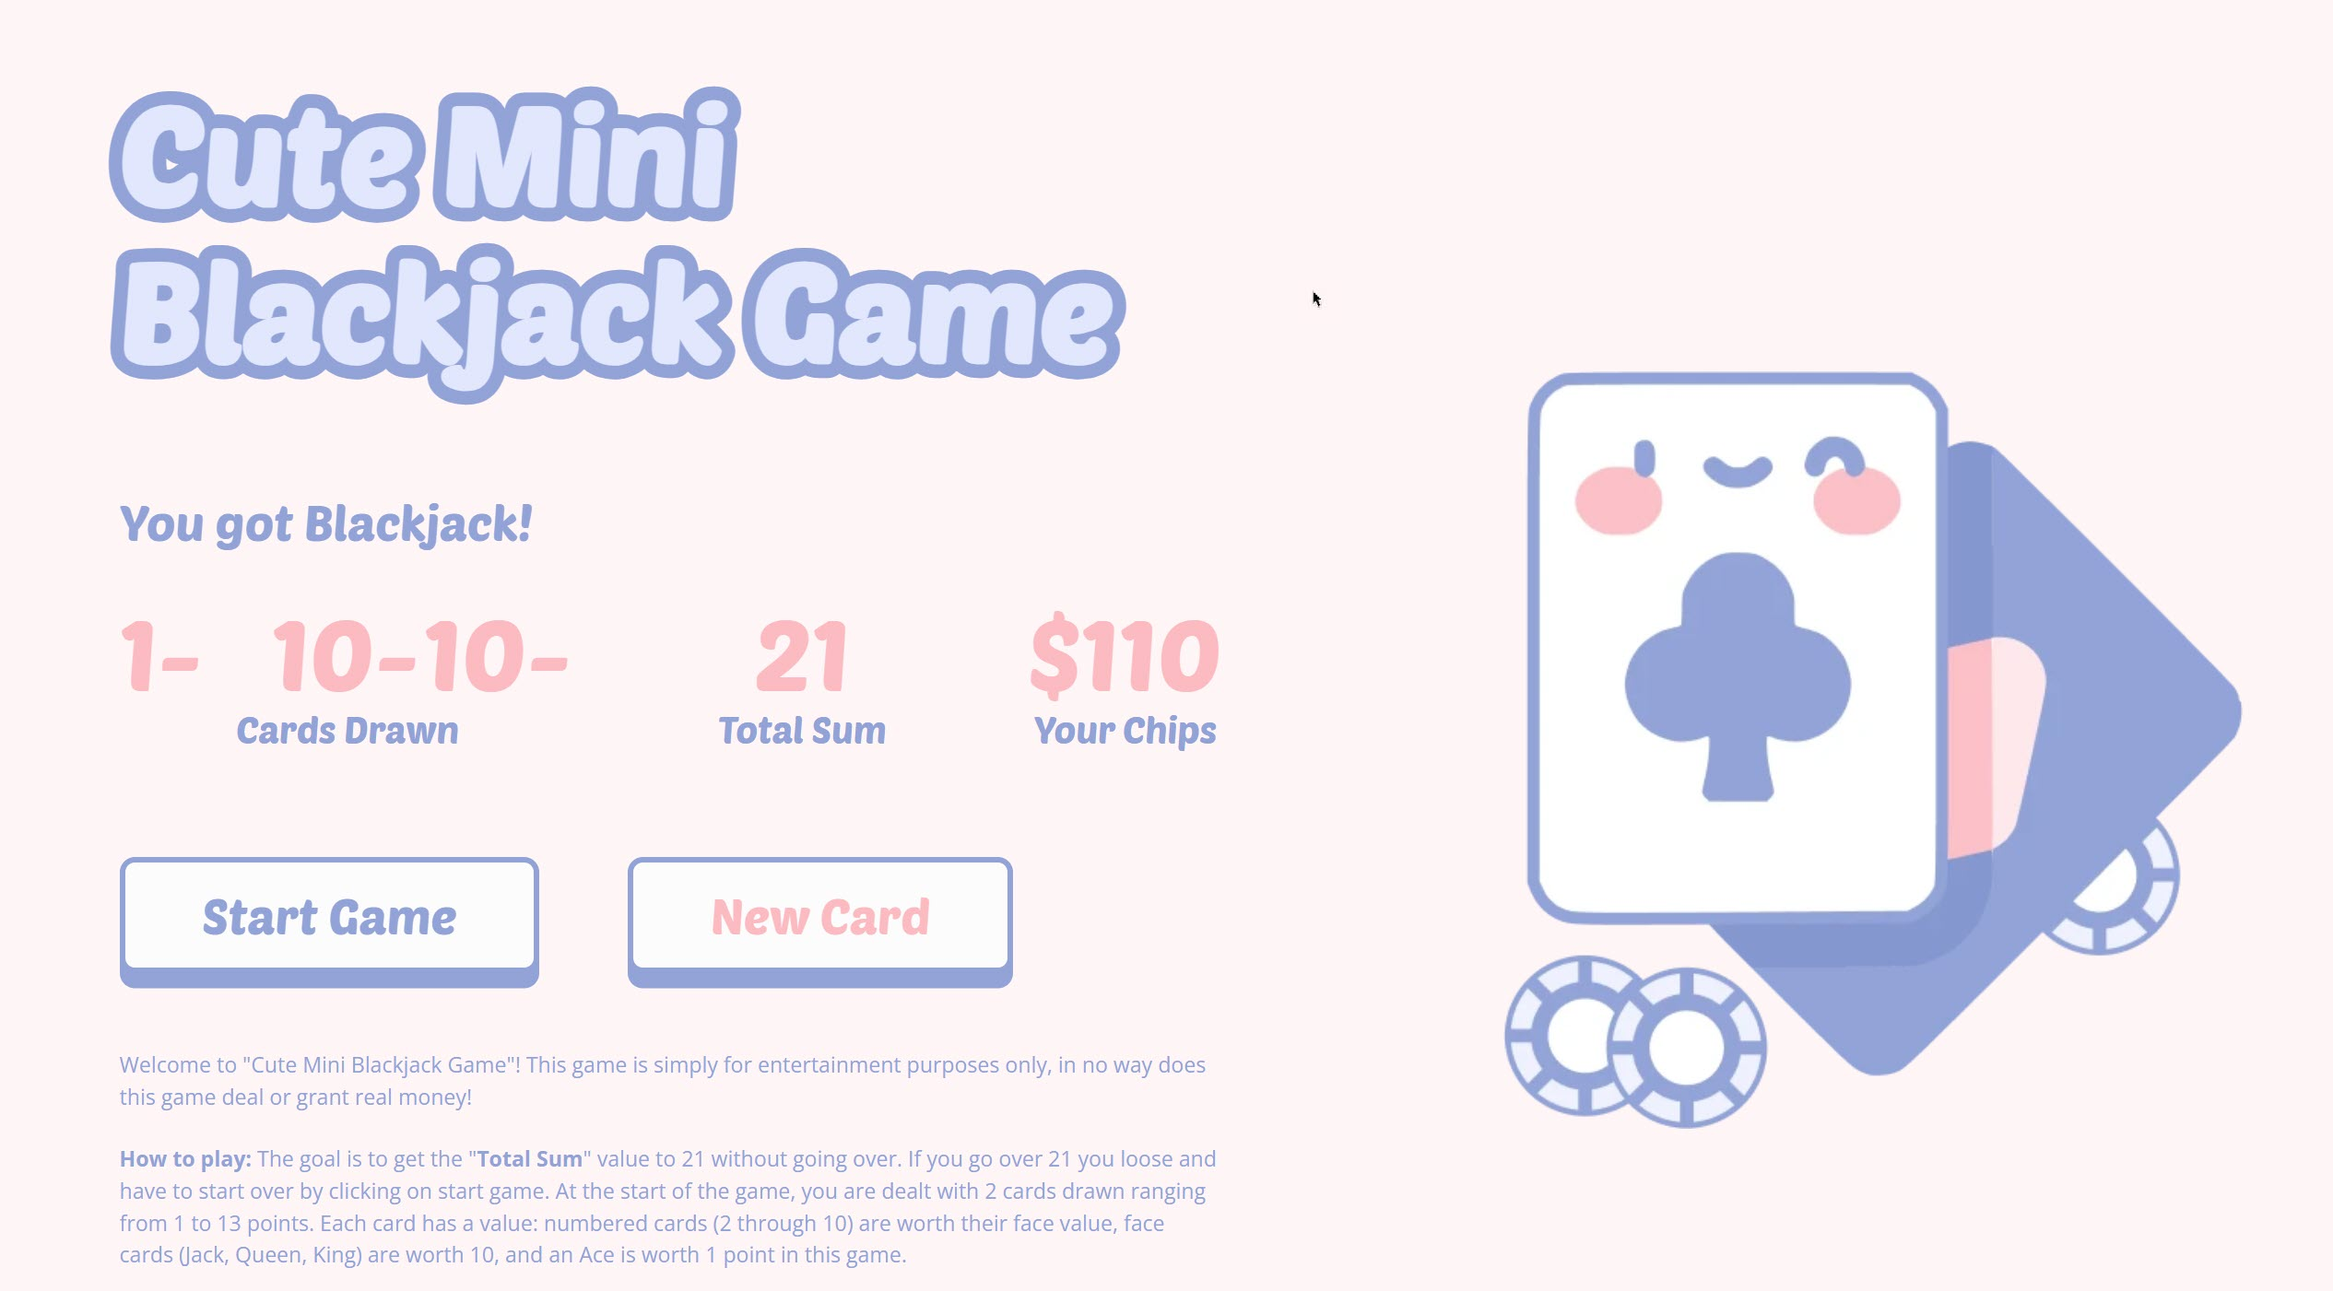
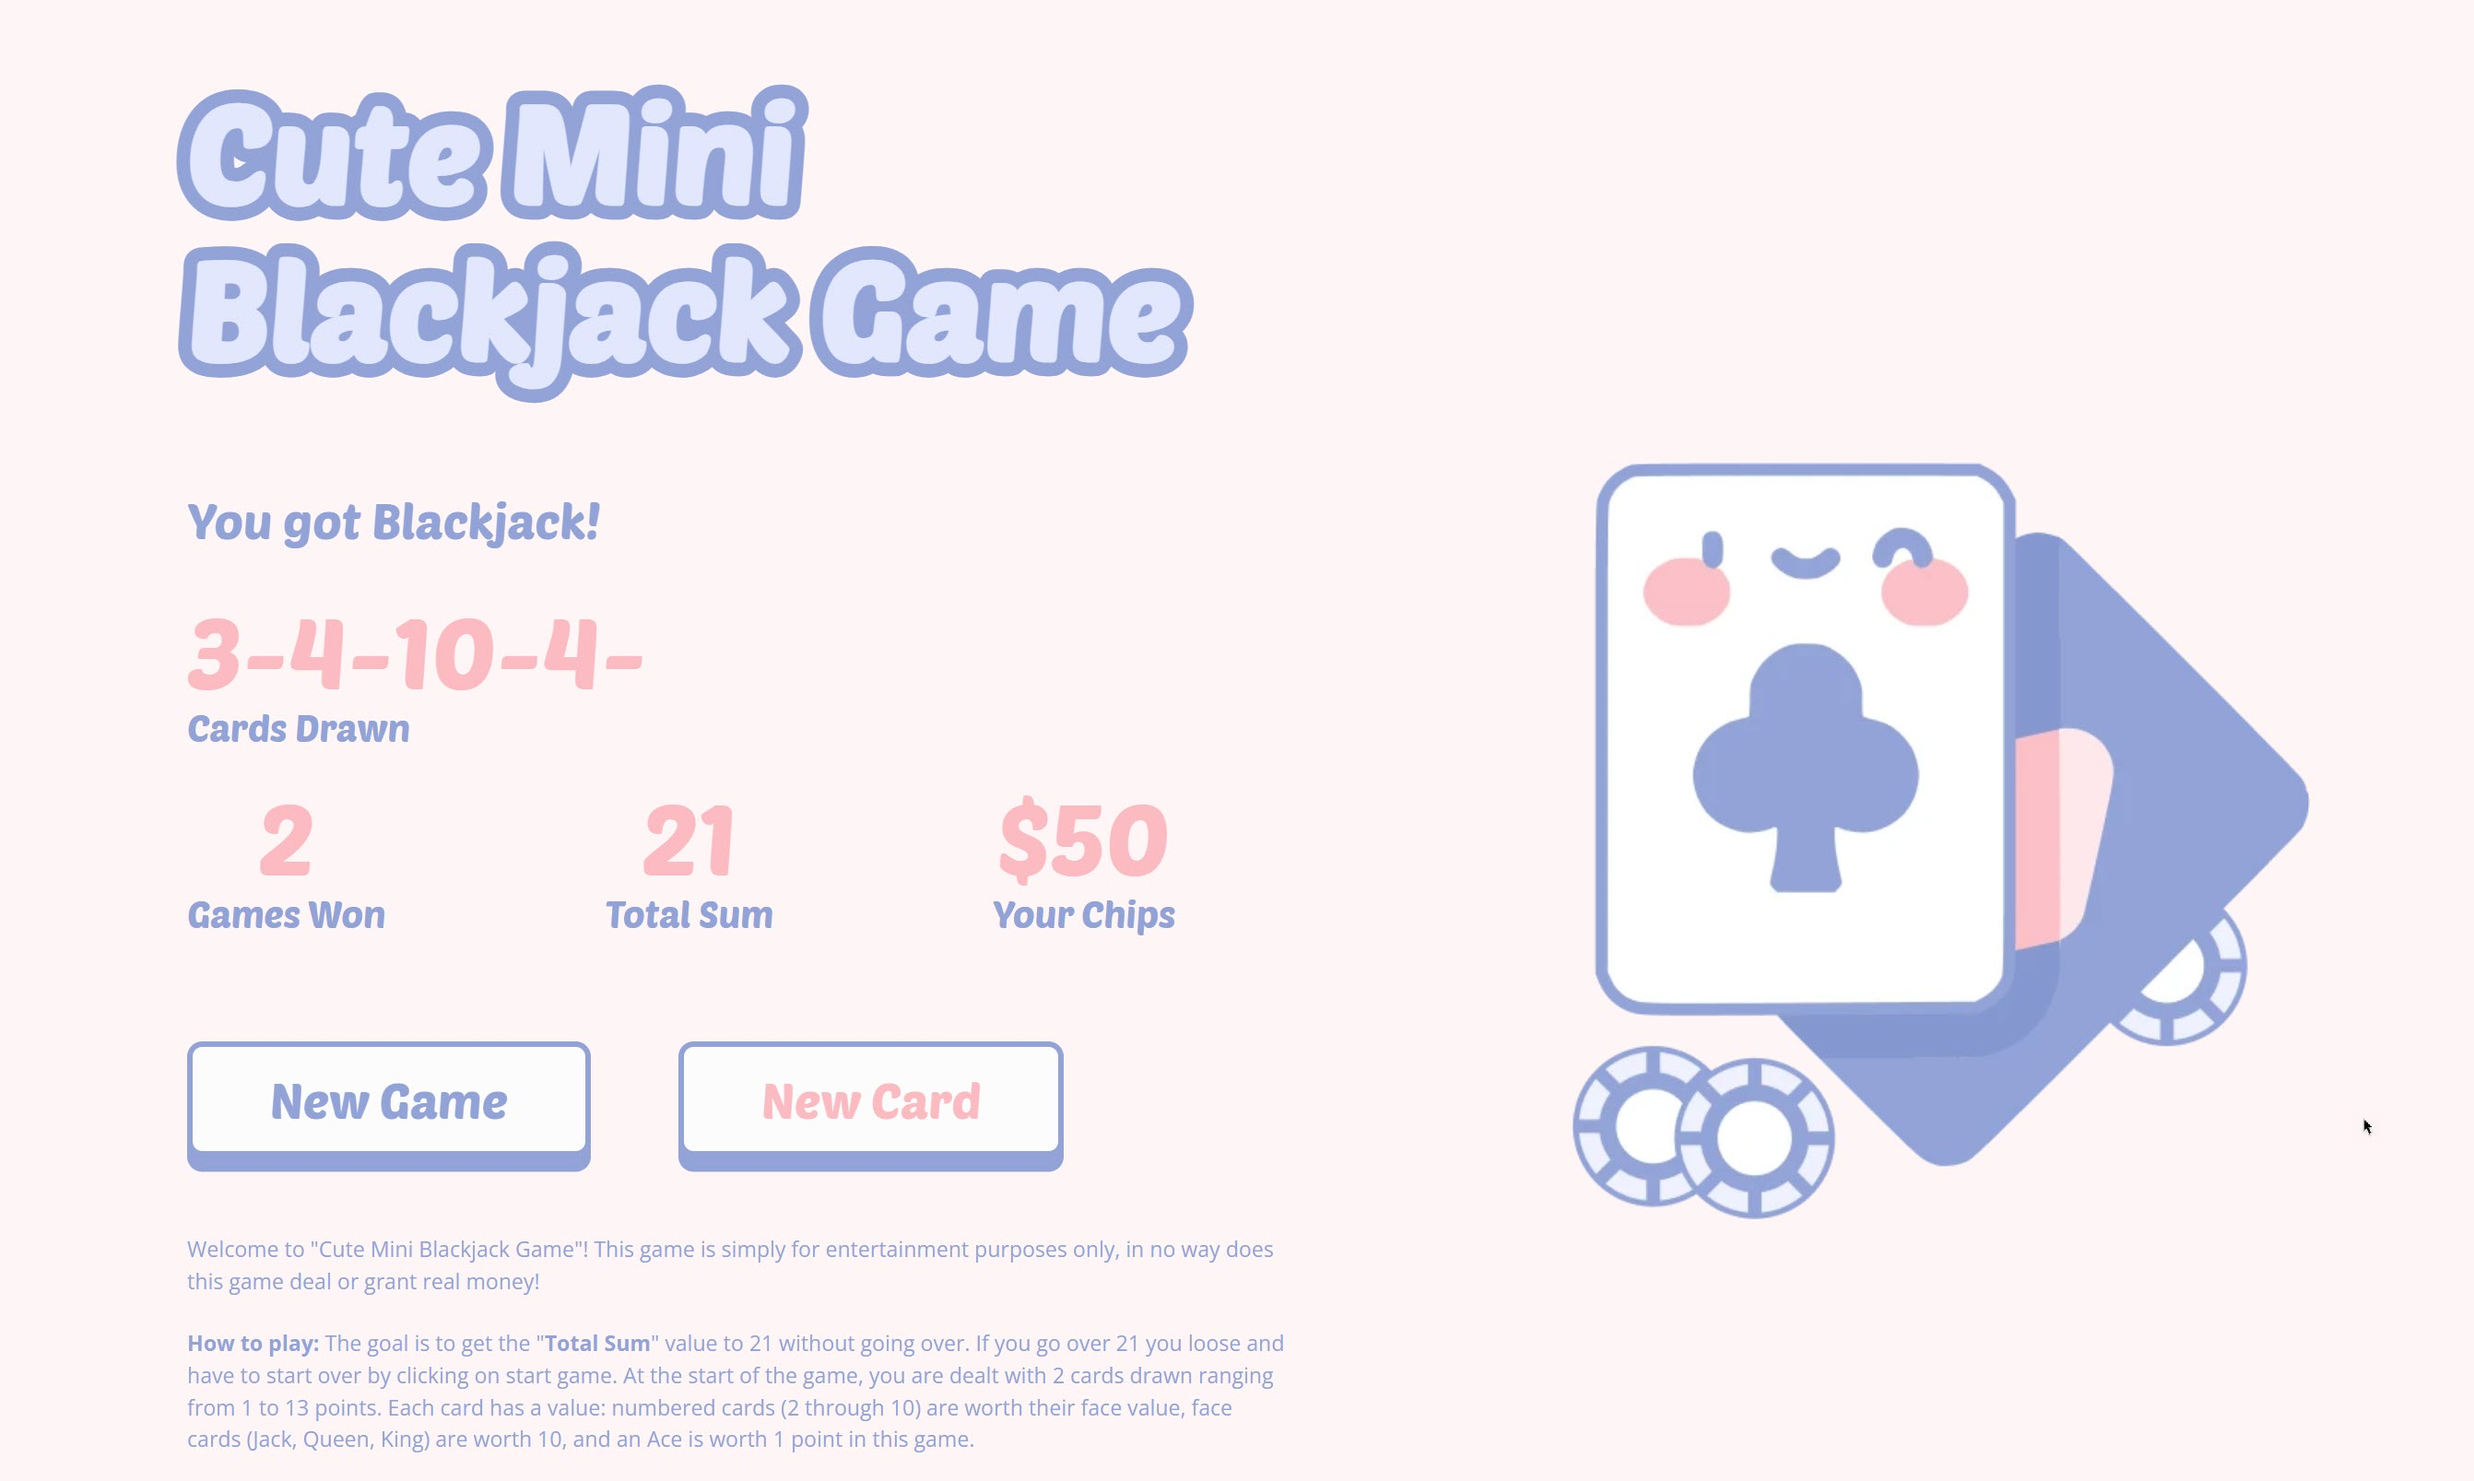
misc. changes

Changed region(s): [[0.0312, 0.0614, 0.5306, 0.9822], [0.6243, 0.2762, 0.9676, 0.8901]]

diff --git a/css/cardgame.css b/css/cardgame.css
@@ -15,7 +15,7 @@ body{
   max-width: 725px;
 }
 h1, button, #message-el, #card-el, #sum-el, #player-el,
-#card-draw{
+#card-draw, #games-won{
   font-family: var(--font-family-PoetsenOne);
 }
 h1{
@@ -88,7 +88,7 @@ button:hover{
 .gameplay p{
   margin-bottom: 2rem;
 }
-.card-style, .sum-style, .chip-style{
+.card-style, .sum-style, .chip-style, .won-style{
   display: flex;
   font-size: var(--font-size-70px);
   color: var(--dark-pink);

diff --git a/js/cardgame.js b/js/cardgame.js
@@ -52,7 +52,7 @@ function getplayerChips() {
 }
 
 function renderGame(){
-  if ( sum <= 21){
+  if ( sum <= 18){
     message = "Close, let's draw a new card!"
   } else if ( sum === 21){
     message = "You got Blackjack!"
